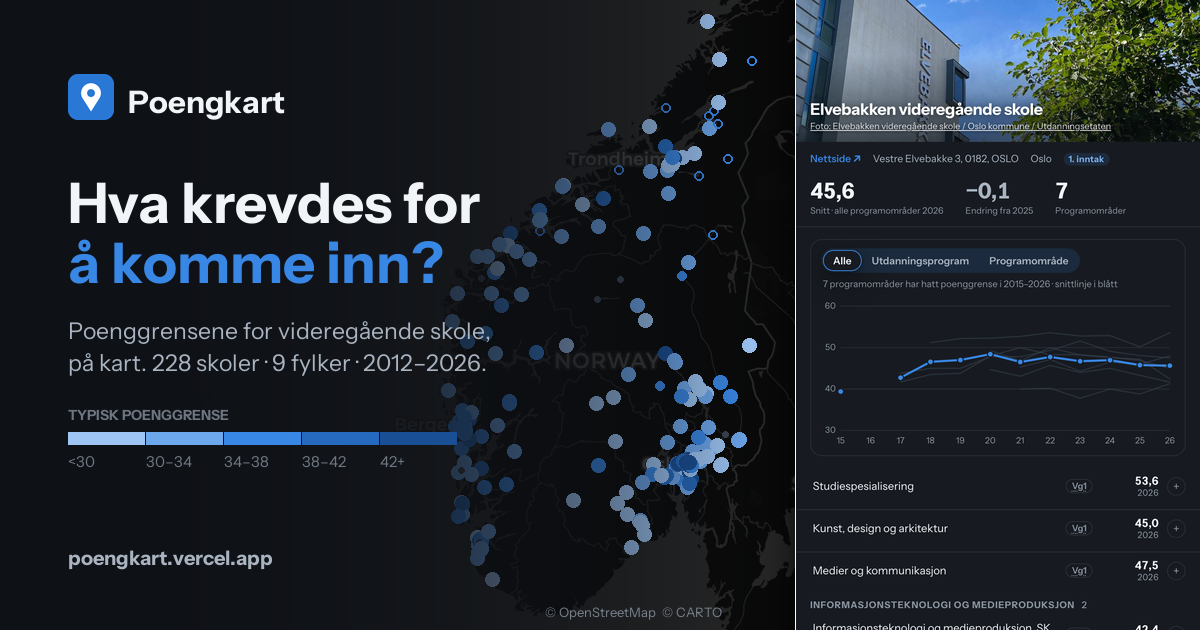
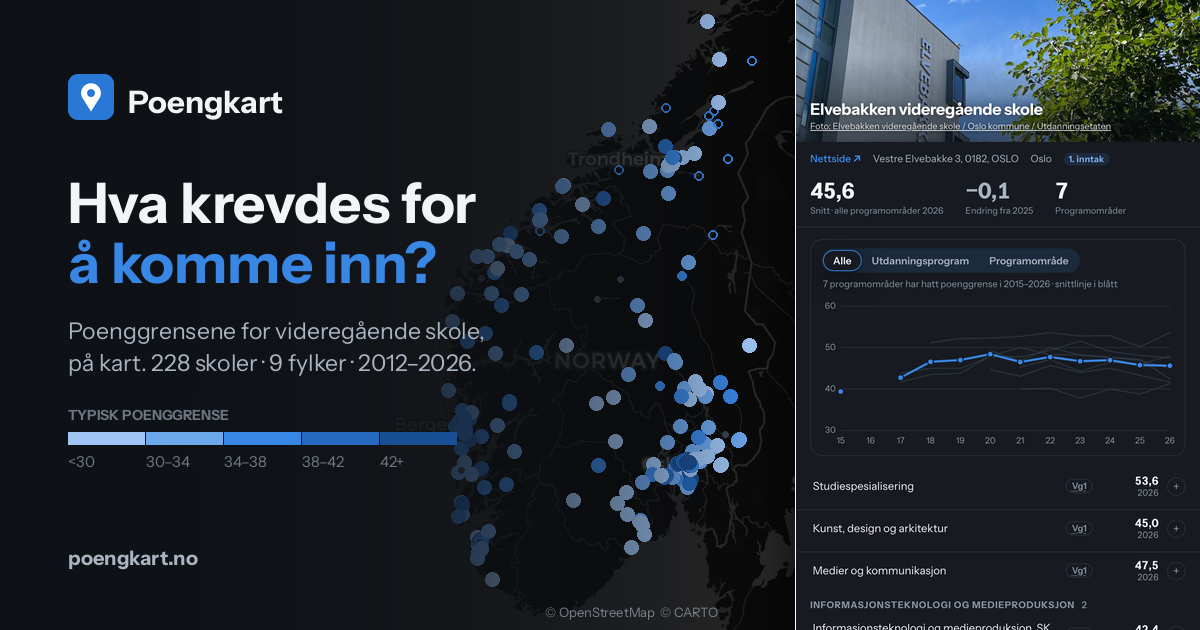
The site's address becomes poengkart.no
Canonical, og:url, sitemap, robots, the share cards and the report name
https://poengkart.no. vercel.json sends poengkart.vercel.app,
poengkart-no.vercel.app and www.poengkart.no there with 308s, and the
feedback relay accepts the new origin. Merge only once poengkart.no
serves this project: before that, the redirects point every visitor at
an address that does not answer.

Claude-Session: https://claude.ai/code/session_01RrVEBu3QTskkNLUtfFF5Cc

diff --git a/web/public/report.html b/web/public/report.html
@@ -9,14 +9,14 @@
 <link rel="icon" href="favicon.svg" type="image/svg+xml">
 <link rel="icon" href="favicon-32.png" sizes="32x32" type="image/png">
 <link rel="apple-touch-icon" href="apple-touch-icon.png">
-<link rel="canonical" href="https://poengkart.vercel.app/report">
+<link rel="canonical" href="https://poengkart.no/report">
 <meta property="og:type" content="article">
 <meta property="og:site_name" content="Poengkart">
 <meta property="og:locale" content="en_GB">
-<meta property="og:url" content="https://poengkart.vercel.app/report">
+<meta property="og:url" content="https://poengkart.no/report">
 <meta property="og:title" content="Poengkart: Open Admission Thresholds and a Calibrated Forecast for the Norwegian Upper-Secondary Intake">
 <meta property="og:description" content="Technical report on Poengkart: an open dataset of Norwegian upper-secondary admission thresholds and a calibrated forecast of the next intake. Technical report · September 2026 · v1.19">
-<meta property="og:image" content="https://poengkart.vercel.app/og.png">
+<meta property="og:image" content="https://poengkart.no/og.png">
 <meta property="og:image:type" content="image/png">
 <meta property="og:image:width" content="1200">
 <meta property="og:image:height" content="630">
@@ -24,7 +24,7 @@
 <meta name="twitter:card" content="summary_large_image">
 <meta name="twitter:title" content="Poengkart: Open Admission Thresholds and a Calibrated Forecast for the Norwegian Upper-Secondary Intake">
 <meta name="twitter:description" content="Technical report on Poengkart: an open dataset of Norwegian upper-secondary admission thresholds and a calibrated forecast of the next intake. Technical report · September 2026 · v1.19">
-<meta name="twitter:image" content="https://poengkart.vercel.app/og.png">
+<meta name="twitter:image" content="https://poengkart.no/og.png">
 <!-- cookieless page counts; a no-op until Web Analytics is enabled on the Vercel project -->
 <script defer src="/_vercel/insights/script.js"></script>
 <style>
@@ -91,7 +91,7 @@ code { font:.85em/1.4 ui-monospace, 'SF Mono', Menlo, monospace;
 <div class="page">
 <nav class="topbar"><a href="./">&larr; poengkart</a></nav>
 <h1>Poengkart: Open Admission Thresholds and a Calibrated Forecast for the Norwegian Upper-Secondary Intake</h1>
-<p class='byline'><strong>Abshalom Dayan</strong><br>Technical report · September 2026 · v1.19 (version history in Appendix D)<br>Application: <a href="https://poengkart.vercel.app">poengkart.vercel.app</a> · Code and data: <a href="https://github.com/avshalomd/poengkart">github.com/avshalomd/poengkart</a></p>
+<p class='byline'><strong>Abshalom Dayan</strong><br>Technical report · September 2026 · v1.19 (version history in Appendix D)<br>Application: <a href="https://poengkart.no">poengkart.no</a> · Code and data: <a href="https://github.com/avshalomd/poengkart">github.com/avshalomd/poengkart</a></p>
 <h2 id='abstract'>Abstract</h2>
 <div class='abstract'><p>Admission to Norwegian upper-secondary school is a centralised, points-based intake with about 80,000 first-year applicants a year, yet its most decision-relevant statistic — the admission threshold (<em>poenggrense</em>), the points of the last applicant admitted to each programme at each school — is published by only eight of fifteen counties, mostly as PDF tables, with inconsistent structure, retention, and semantics. We assemble every edition we could retrieve into an open, register-normalised panel: 217 schools, 2,308 programme rows, 12,827 observations, 2012–2026, keyed to Norway's national programme register (Grep). On this censored panel we forecast the next intake as the probability of admission given the applicant's points, using a hurdle model: a hierarchical logistic model for whether a programme fills, and a hierarchical Gaussian model with a random-walk county–year level for where the threshold lands if it does. Spread is estimated from walk-forward errors rather than from the fit, the error distribution is empirical, and fill probabilities are Platt-recalibrated. Evaluated walk-forward with 2025–2026 held out, the model beats persistence, exponential-smoothing and group-mean baselines on RMSE in every history stratum where they are defined (5.08 vs 6.15 and 5.24 points on series with four or more observed years; cluster-bootstrap intervals exclude zero), nominal 80% intervals cover 80.1% [78.3, 81.9] of outcomes (80.5% on Vg1, the application's default level, and 79.6% on Vg2 and up), and the admission probability is calibrated to within 8.1 points in every decile and beats both a deterministic and a probabilistic persistence rule (Brier 0.090 vs 0.156 and 0.094). Paired within-year publications identify an intake-round effect of −3.2 to −3.4 points that makes cross-county comparison of raw thresholds misleading. Code and data: https://github.com/avshalomd/poengkart.</p></div>
 <h2 id='1-introduction'>1. Introduction</h2>

diff --git a/web/e2e/routes.spec.ts b/web/e2e/routes.spec.ts
@@ -95,7 +95,7 @@ test('a school page carries the school before any script runs', async ({ request
   expect(res.status()).toBe(200);
   const html = await res.text();
   expect(html).toMatch(/<title>Asker – poenggrenser \| Poengkart<\/title>/);
-  expect(html).toMatch(/<link rel="canonical" href="https:\/\/poengkart\.vercel\.app\/akershus\/asker">/);
+  expect(html).toMatch(/<link rel="canonical" href="https:\/\/poengkart\.no\/akershus\/asker">/);
   expect(html).toMatch(/<meta property="og:title" content="Asker – hva krevdes for å komme inn\?">/);
   expect(html).toContain('<aside id="side" class="open">');
   expect(html).toContain('<h2>Asker</h2>');
@@ -106,7 +106,7 @@ test('a school page carries the school before any script runs', async ({ request
 test('the home page head is unchanged', async ({ request }) => {
   const html = await (await request.get('/')).text();
   expect(html).toMatch(/<title>Poengkart – poenggrenser for videregående skole<\/title>/);
-  expect(html).toMatch(/<link rel="canonical" href="https:\/\/poengkart\.vercel\.app\/">/);
+  expect(html).toMatch(/<link rel="canonical" href="https:\/\/poengkart\.no\/">/);
   expect(html).not.toContain('class="side-open"');
   // the Search Console property is verified by this tag; a page without it
   // un-verifies the property
@@ -129,7 +129,7 @@ test('the script takes over a prerendered sheet without changing it', async ({ p
 
 test('every school page points at its own card, and the card is a PNG', async ({ request }) => {
   const html = await (await request.get('/akershus/asker')).text();
-  expect(html).toMatch(/<meta property="og:image" content="https:\/\/poengkart\.vercel\.app\/og\/akershus\/asker\.png">/);
+  expect(html).toMatch(/<meta property="og:image" content="https:\/\/poengkart\.no\/og\/akershus\/asker\.png">/);
   const res = await request.get('/og/akershus/asker.png');
   expect(res.status()).toBe(200);
   expect(res.headers()['content-type']).toContain('image/png');
@@ -141,5 +141,5 @@ test('the sitemap names every school', async ({ request }) => {
   expect(res.status()).toBe(200);
   const xml = await res.text();
   expect((xml.match(/<loc>/g) || []).length).toBeGreaterThan(200);
-  expect(xml).toContain('<loc>https://poengkart.vercel.app/akershus/asker</loc>');
+  expect(xml).toContain('<loc>https://poengkart.no/akershus/asker</loc>');
 });

diff --git a/web/test/router.test.ts b/web/test/router.test.ts
@@ -55,8 +55,8 @@ describe('the address', () => {
   });
   it('the share head follows the sheet: canonical, og:url and og:title name the open school, then the home page', () => {
     document.head.insertAdjacentHTML('beforeend',
-      '<link rel="canonical" href="https://poengkart.vercel.app/">' +
-      '<meta property="og:url" content="https://poengkart.vercel.app/">' +
+      '<link rel="canonical" href="https://poengkart.no/">' +
+      '<meta property="og:url" content="https://poengkart.no/">' +
       '<meta property="og:title" content="Poengkart – hva krevdes for å komme inn?">');
     const head = () => [document.querySelector<HTMLLinkElement>('link[rel="canonical"]')!.href,
       document.querySelector('meta[property="og:url"]')!.getAttribute('content'),
@@ -66,7 +66,7 @@ describe('the address', () => {
     const h = schoolHead(asker(), DATA);
     expect(head()).toEqual([h.canonical, h.canonical, h.ogTitle]);
     setUrlSchool(null);
-    expect(head()).toEqual(['https://poengkart.vercel.app/', 'https://poengkart.vercel.app/',
+    expect(head()).toEqual(['https://poengkart.no/', 'https://poengkart.no/',
       'Poengkart – hva krevdes for å komme inn?']);
     document.head.querySelectorAll('link[rel="canonical"], meta[property^="og:"]').forEach(e => e.remove());
   });
@@ -123,7 +123,7 @@ describe('the school page head', () => {
   it('names the school in the title, the county in the description and the path in the canonical', () => {
     const h = schoolHead(asker(), DATA);
     expect(h.title).toBe('Asker – poenggrenser | Poengkart');
-    expect(h.canonical).toBe('https://poengkart.vercel.app/akershus/asker');
+    expect(h.canonical).toBe('https://poengkart.no/akershus/asker');
     expect(h.description).toContain('Asker i Akershus');
     expect(h.description).toMatch(/\(\d{4}–\d{4}\)\.$/);
   });

diff --git a/web/test/feedback.test.ts b/web/test/feedback.test.ts
@@ -26,14 +26,15 @@ const CTX_KEYS = (relay.match(/const CTX = \[([\s\S]*?)\];/)![1].match(/\['(\w+)
 const submit = () => sendContact({ preventDefault() {} } as any);
 
 describe('the relay', () => {
-  it('takes mail from this site and its own deployments, not from any poengkart-<x>.vercel.app', () => {
+  it('takes mail from this site, its domain and its own deployments, not from any poengkart-<x>.vercel.app', () => {
     const SELF = new RegExp(relay.match(/const SELF = \/(.+)\/;/)![1]);
-    for (const ok of ['https://poengkart.vercel.app', 'https://poengkart-no.vercel.app', 'https://poengkart-ad-6b15.vercel.app',
+    for (const ok of ['https://poengkart.no', 'https://www.poengkart.no', 'https://poengkart.vercel.app', 'https://poengkart-no.vercel.app', 'https://poengkart-ad-6b15.vercel.app',
       'https://poengkart-k3j2h1g-ad-6b15.vercel.app', 'https://poengkart-git-side-branch-ad-6b15.vercel.app']) {
       expect(SELF.test(ok), ok).toBe(true);
     }
     for (const bad of ['https://poengkart-evil.vercel.app', 'https://poengkart-nox.vercel.app',
-      'https://poengkart.vercel.app.evil.com', 'http://poengkart.vercel.app']) {
+      'https://poengkart.vercel.app.evil.com', 'http://poengkart.vercel.app',
+      'https://poengkart.no.evil.com', 'https://evilpoengkart.no', 'http://poengkart.no']) {
       expect(SELF.test(bad), bad).toBe(false);
     }
   });

diff --git a/api/feedback.js b/api/feedback.js
@@ -62,10 +62,11 @@ function dayFull() {
 // text/plain body is a "simple" request, so no browser asks permission first.
 // Any page in the world could have its visitors send mail here, one per
 // visitor, past a per-IP limit that never sees the same address twice.
-// The site's three names (poengkart, poengkart-no, poengkart-ad-6b15) and the
+// The site's own domain (poengkart.no, with or without www), its three
+// vercel.app names (poengkart, poengkart-no, poengkart-ad-6b15) and the
 // team's own deployments (…-ad-6b15). The pattern used to take any
 // poengkart-<x>.vercel.app, a name anyone can register.
-const SELF = /^https:\/\/poengkart(-no|-([a-z0-9-]+-)?ad-6b15)?\.vercel\.app$/;
+const SELF = /^https:\/\/((www\.)?poengkart\.no|poengkart(-no|-([a-z0-9-]+-)?ad-6b15)?\.vercel\.app)$/;
 const LOCAL = /^http:\/\/(localhost|127\.0\.0\.1)(:\d+)?$/;
 
 function limited(ip) {

diff --git a/web/test/node/sitemap.test.ts b/web/test/node/sitemap.test.ts
@@ -11,9 +11,9 @@ describe('sitemap.xml', () => {
     const n = loadDataset().schools.length;
     expect(locs.length).toBe(n + 2);
     expect(new Set(locs).size).toBe(locs.length);
-    expect(locs[0]).toBe('https://poengkart.vercel.app/');
-    expect(locs[1]).toBe('https://poengkart.vercel.app/report');
-    expect(locs).toContain('https://poengkart.vercel.app/akershus/asker');
+    expect(locs[0]).toBe('https://poengkart.no/');
+    expect(locs[1]).toBe('https://poengkart.no/report');
+    expect(locs).toContain('https://poengkart.no/akershus/asker');
     expect(xml).not.toContain('<lastmod>');
     expect(xml.startsWith('<?xml version="1.0" encoding="UTF-8"?>')).toBe(true);
   });

diff --git a/web/test/node/card.test.ts b/web/test/node/card.test.ts
@@ -19,7 +19,7 @@ describe('the share card', () => {
   it('names the school, the county and the hero figure', () => {
     S.DATA = data;
     const text = JSON.stringify(cardTree(asker));
-    expect(text).toContain('Asker'); expect(text).toContain('Akershus'); expect(text).toContain('poengkart.vercel.app');
+    expect(text).toContain('Asker'); expect(text).toContain('Akershus'); expect(text).toContain('poengkart.no');
   });
   // 7 schools have a label rather than a figure for their latest year but means
   // in earlier ones. The line drawn from those means ends years before the year

diff --git a/web/src/chance.ts b/web/src/chance.ts
@@ -132,7 +132,7 @@ export function choicesText(): string {
   });
   if (pts && n) lines.push('', anyChanceText(1 - pNone) + (n < items.length ? ' ' + t('choicesPartial', n, items.length) : ''));
   const d = new Date(), dd = `${String(d.getDate()).padStart(2, '0')}.${String(d.getMonth() + 1).padStart(2, '0')}.${d.getFullYear()}`;
-  lines.push('', t('copyFoot', location.host || 'poengkart.vercel.app', dd));
+  lines.push('', t('copyFoot', location.host || 'poengkart.no', dd));
   return lines.join('\n');
 }
 export async function copyChoices() {

diff --git a/web/src/cards/card.ts b/web/src/cards/card.ts
@@ -109,7 +109,7 @@ export function cardTree(s: School): Node {
       ]),
       ...(line ? [el('img', { width: 480, height: 200, flexShrink: 0 }, undefined, { src: line, width: 480, height: 200 })] : []),
     ]),
-    el('div', { display: 'flex', fontSize: 22, color: MUTED, marginTop: 28 }, 'poengkart.vercel.app'),
+    el('div', { display: 'flex', fontSize: 22, color: MUTED, marginTop: 28 }, 'poengkart.no'),
   ]);
 }
 

diff --git a/web/src/prerender.ts b/web/src/prerender.ts
@@ -7,7 +7,7 @@ import { S } from './state';
 import { heroCells, heroHtml, listHtml, metaHtml, notesHtml, photoHtml, srcNoteHtml } from './templates';
 import type { Dataset, School } from './types';
 
-export const SITE = 'https://poengkart.vercel.app';
+export const SITE = 'https://poengkart.no';
 
 export interface HeadProps {
   title: string;

diff --git a/tools/build_report_page.py b/tools/build_report_page.py
@@ -304,14 +304,14 @@ page = f"""<!DOCTYPE html>
 <link rel="icon" href="favicon.svg" type="image/svg+xml">
 <link rel="icon" href="favicon-32.png" sizes="32x32" type="image/png">
 <link rel="apple-touch-icon" href="apple-touch-icon.png">
-<link rel="canonical" href="https://poengkart.vercel.app/report">
+<link rel="canonical" href="https://poengkart.no/report">
 <meta property="og:type" content="article">
 <meta property="og:site_name" content="Poengkart">
 <meta property="og:locale" content="en_GB">
-<meta property="og:url" content="https://poengkart.vercel.app/report">
+<meta property="og:url" content="https://poengkart.no/report">
 <meta property="og:title" content="{esc_attr(title)}">
 <meta property="og:description" content="{esc_attr(og_description)}">
-<meta property="og:image" content="https://poengkart.vercel.app/og.png">
+<meta property="og:image" content="https://poengkart.no/og.png">
 <meta property="og:image:type" content="image/png">
 <meta property="og:image:width" content="1200">
 <meta property="og:image:height" content="630">
@@ -319,7 +319,7 @@ page = f"""<!DOCTYPE html>
 <meta name="twitter:card" content="summary_large_image">
 <meta name="twitter:title" content="{esc_attr(title)}">
 <meta name="twitter:description" content="{esc_attr(og_description)}">
-<meta name="twitter:image" content="https://poengkart.vercel.app/og.png">
+<meta name="twitter:image" content="https://poengkart.no/og.png">
 <!-- cookieless page counts; a no-op until Web Analytics is enabled on the Vercel project -->
 <script defer src="/_vercel/insights/script.js"></script>
 <style>{CSS}</style>

diff --git a/tools/make_og.py b/tools/make_og.py
@@ -357,7 +357,7 @@ def main():
         d.rectangle([x + i * lw, ly, x + (i + 1) * lw - 2, ly + 12], fill=c)
         d.text((x + i * lw, ly + 20), EDGES[i], font=font(15), fill=INK3)
 
-    d.text((x, 545), 'poengkart.vercel.app', font=font(20, 'bold'), fill=INK2)
+    d.text((x, 545), 'poengkart.no', font=font(20, 'bold'), fill=INK2)
 
     out = os.path.join(HERE, '..', 'web', 'public', 'og.png')
     card.convert('RGB').save(out, optimize=True)
